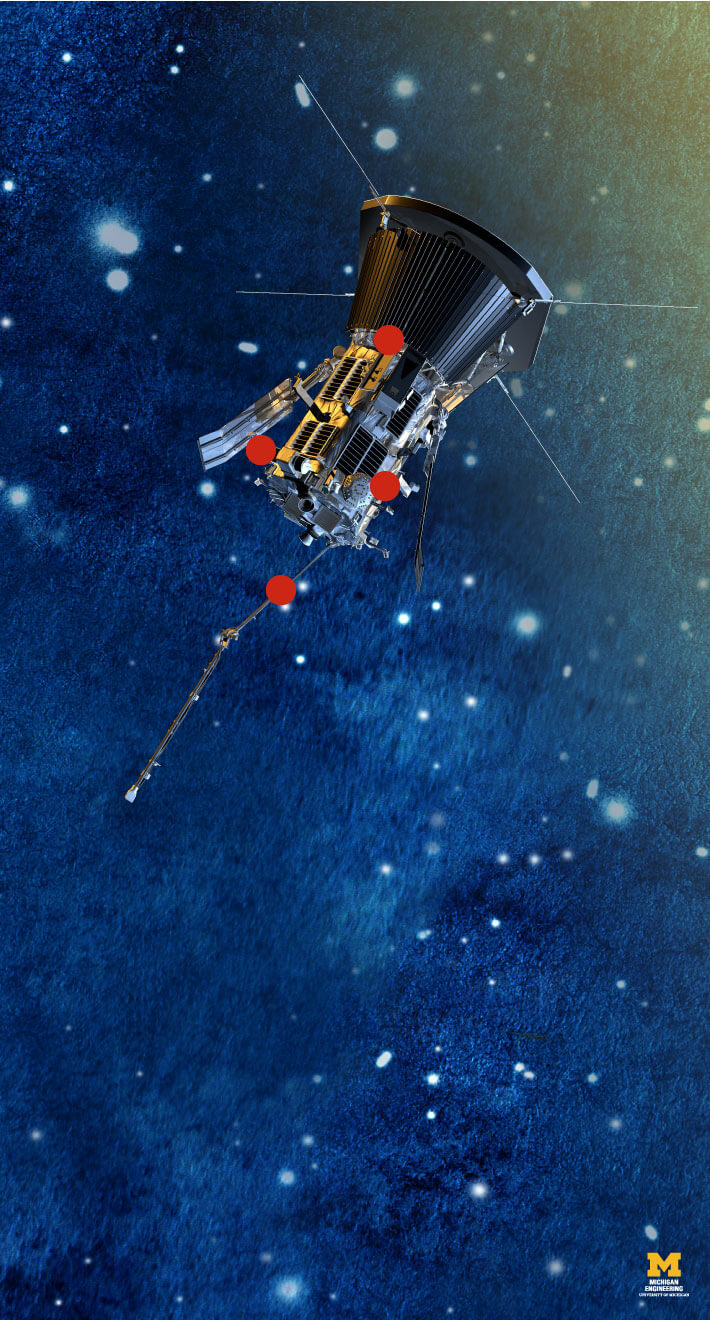
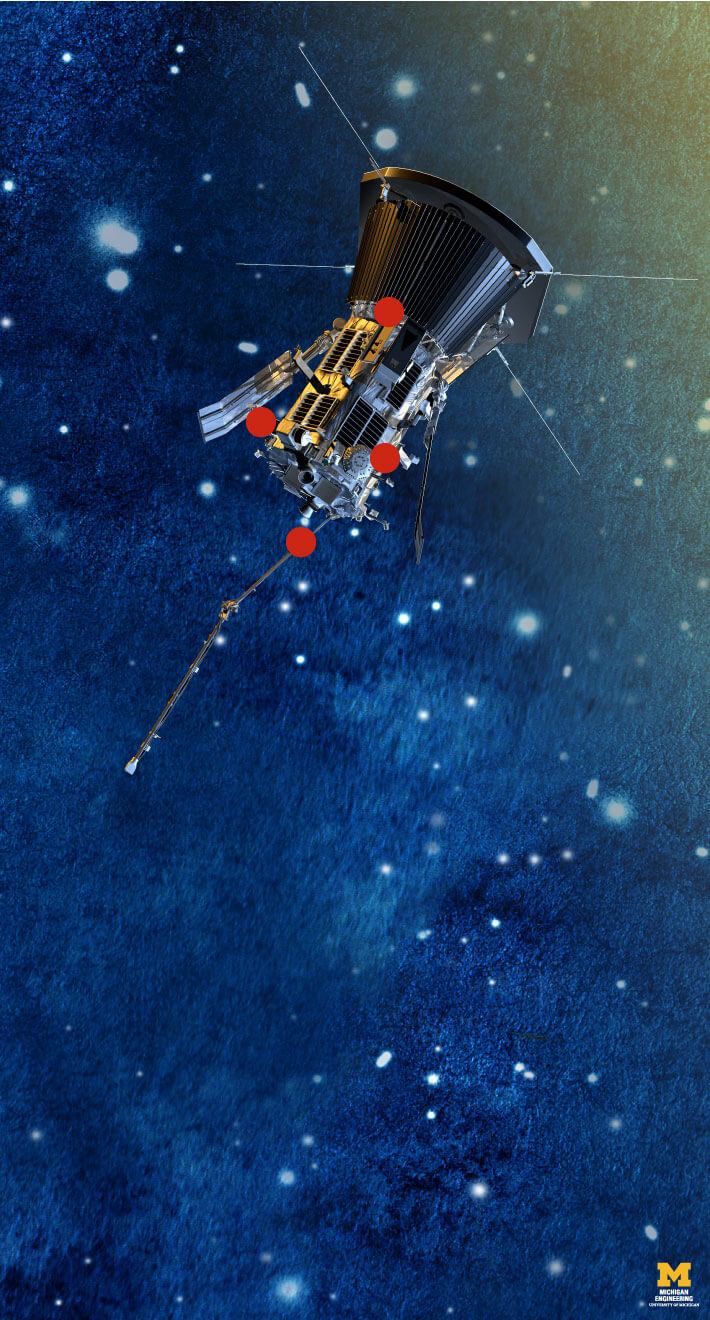
refine mobile layout

Changed region(s): [[0.1549, 0.1242, 0.7746, 0.6212], [0.8986, 0.9318, 0.9915, 0.9939]]

diff --git a/ai2html/parker-probe/ai2html-output_psp-01/index.html b/ai2html/parker-probe/ai2html-output_psp-01/index.html
@@ -20,7 +20,7 @@ p {
 </head>
 <body>
 <div id="coe-psp-01-box" class="ai2html">
-	<!-- Generated by ai2html v0.65.1-coe-customized-v2 - 2018-03-20 - 16:48 -->
+	<!-- Generated by ai2html v0.65.1-coe-customized-v2 - 2018-03-20 - 16:58 -->
 	<!-- ai file: psp-01.ai -->
 
 	<style type='text/css' media='screen,print'>
@@ -290,8 +290,8 @@ p {
 			}
 			#coe-psp-01-mobile-355 p {
 				font-weight:500;
-				font-size:11px;
-				line-height:13px;
+				font-size:12px;
+				line-height:14px;
 				filter:alpha(opacity=100);
 				-ms-filter:progid:DXImageTransform.Microsoft.Alpha(Opacity=100);
 				opacity:1;
@@ -317,11 +317,19 @@ p {
 			#coe-psp-01-mobile-355 .coe-pstyle2 {
 				font-family:'Open Sans',arial,helvetica,sans-serif;
 				font-weight:800;
+				font-size:11px;
 				line-height:17px;
 				text-align:center;
 				text-transform:uppercase;
 			}
 			#coe-psp-01-mobile-355 .coe-pstyle3 {
+				font-family:'Open Sans',arial,helvetica,sans-serif;
+				font-weight:800;
+				line-height:17px;
+				text-align:center;
+				text-transform:uppercase;
+			}
+			#coe-psp-01-mobile-355 .coe-pstyle4 {
 				font-family:'Open Sans',arial,helvetica,sans-serif;
 				font-weight:700;
 			}
@@ -331,48 +339,48 @@ p {
 			<p class="coe-pstyle0">Parker's Toolbox</p>
 			<p class="coe-pstyle1">Sampling the sun&rsquo;s atmosphere requires NASA to pack the Parker Solar Probe with a variety of sensing and optical equipment. The gear is aimed at providing answers in four different areas of scientific inquiry.</p>
 		</div>
-		<div id="coe-ai3-2" class="coe-shadow coe-aiAbs coe-aiPointText" style="top:25.8067%;margin-top:-9.3px;left:54.5808%;margin-left:-0.8451%;width:8px;">
+		<div id="coe-ai3-2" class="coe-shadow coe-aiAbs coe-aiPointText" style="top:23.6855%;margin-top:-9.3px;left:54.5808%;margin-left:-0.8451%;width:8px;">
 			<p class="coe-pstyle2">1</p>
 		</div>
-		<div id="coe-ai3-3" class="coe-shadow coe-aiAbs coe-aiPointText" style="top:34.1401%;margin-top:-9.3px;left:36.557%;margin-left:-0.8451%;width:8px;">
+		<div id="coe-ai3-3" class="coe-shadow coe-aiAbs coe-aiPointText" style="top:32.0189%;margin-top:-9.3px;left:36.557%;margin-left:-0.8451%;width:8px;">
 			<p class="coe-pstyle2">2</p>
 		</div>
-		<div id="coe-ai3-4" class="coe-shadow coe-aiAbs coe-aiPointText" style="top:37.0189%;margin-top:-9.3px;left:54.3035%;margin-left:-0.8451%;width:8px;">
+		<div id="coe-ai3-4" class="coe-shadow coe-aiAbs coe-aiPointText" style="top:34.8976%;margin-top:-9.3px;left:54.3035%;margin-left:-0.8451%;width:8px;">
 			<p class="coe-pstyle2">3</p>
 		</div>
-		<div id="coe-ai3-5" class="coe-shadow coe-aiAbs coe-aiPointText" style="top:44.7461%;margin-top:-9.3px;left:39.3739%;margin-left:-0.8451%;width:8px;">
+		<div id="coe-ai3-5" class="coe-shadow coe-aiAbs coe-aiPointText" style="top:41.1098%;margin-top:-9.3px;left:42.1908%;margin-left:-0.8451%;width:8px;">
 			<p class="coe-pstyle2">4</p>
 		</div>
-		<div id="coe-ai3-6" class="coe-shadow coe-aiAbs coe-aiPointText" style="top:50.6552%;margin-top:-9.3px;left:3.4331%;margin-left:-1.4085%;width:12px;">
-			<p class="coe-pstyle2">1.</p>
+		<div id="coe-ai3-6" class="coe-shadow coe-aiAbs coe-aiPointText" style="top:46.1211%;margin-top:-9.4px;left:3.4507%;margin-left:-1.5493%;width:13px;">
+			<p class="coe-pstyle3">1.</p>
 		</div>
-		<div id="coe-ai3-7" class="coe-shadow coe-aiAbs" style="top:49.697%;left:6.1289%;width:93.8028%;">
-			<p class="coe-pstyle3">Wide-field Imager for Solar Probe (WISPR)</p>
+		<div id="coe-ai3-7" class="coe-shadow coe-aiAbs" style="top:45.1515%;left:6.1289%;width:93.8028%;">
+			<p class="coe-pstyle4">Wide-field Imager for Solar Probe (WISPR)</p>
 			<p>Will be capturing images of the solar wind and plasma in the atmosphere. Will derive the 3D structure of the large-scale corona.</p>
 		</div>
-		<div id="coe-ai3-8" class="coe-shadow coe-aiAbs coe-aiPointText" style="top:60.3522%;margin-top:-9.3px;left:3.4331%;margin-left:-1.4085%;width:12px;">
-			<p class="coe-pstyle2">2.</p>
+		<div id="coe-ai3-8" class="coe-shadow coe-aiAbs coe-aiPointText" style="top:56.4242%;margin-top:-9.4px;left:3.4507%;margin-left:-1.5493%;width:13px;">
+			<p class="coe-pstyle3">2.</p>
 		</div>
-		<div id="coe-ai3-9" class="coe-shadow coe-aiAbs" style="top:59.3939%;left:6.1972%;width:91.2676%;">
-			<p class="coe-pstyle3">Solar Wind Electrons and Protons (SWEAP) Investigation</p>
+		<div id="coe-ai3-9" class="coe-shadow coe-aiAbs" style="top:55.4545%;left:6.1972%;width:91.2676%;">
+			<p class="coe-pstyle4">Solar Wind Electrons and Protons (SWEAP) Investigation</p>
 			<p>A trio of sensors will break down the makeup of the solar wind &ndash; counting the electrons, protons and helium ions it includes and measuring their velocity, density and temperatures.</p>
 		</div>
-		<div id="coe-ai3-10" class="coe-shadow coe-aiAbs" style="top:69.0909%;left:6.2652%;width:90.4225%;">
-			<p class="coe-pstyle3">Integrated Science Investigation of the Sun (IS0IS)</p>
+		<div id="coe-ai3-10" class="coe-shadow coe-aiAbs coe-aiPointText" style="top:70.9696%;margin-top:-9.4px;left:3.4507%;margin-left:-1.5493%;width:13px;">
+			<p class="coe-pstyle3">3.</p>
+		</div>
+		<div id="coe-ai3-11" class="coe-shadow coe-aiAbs" style="top:70%;left:6.2652%;width:90.4225%;">
+			<p class="coe-pstyle4">Integrated Science Investigation of the Sun (IS0IS)</p>
 			<p>Cataloging the energetic electrons, protons and heavy ions that are accelerated in the atmosphere as well as the inner heliosphere. Handled by the Energetic Particle Instrument &ndash; it&rsquo;s made up of one double-ended high-energy telescope and a pair of low-energy telescopes.</p>
 		</div>
-		<div id="coe-ai3-11" class="coe-shadow coe-aiAbs coe-aiPointText" style="top:70.0491%;margin-top:-9.3px;left:3.4331%;margin-left:-1.4085%;width:12px;">
-			<p class="coe-pstyle2">3.</p>
+		<div id="coe-ai3-12" class="coe-shadow coe-aiAbs coe-aiPointText" style="top:87.4848%;margin-top:-9.4px;left:3.4507%;margin-left:-1.5493%;width:13px;">
+			<p class="coe-pstyle3">4.</p>
 		</div>
-		<div id="coe-ai3-12" class="coe-shadow coe-aiAbs" style="top:82.7273%;left:6.1972%;width:90.9859%;">
-			<p class="coe-pstyle3">FIELDS Experiment</p>
+		<div id="coe-ai3-13" class="coe-shadow coe-aiAbs" style="top:86.5152%;left:6.1972%;width:90.9859%;">
+			<p class="coe-pstyle4">FIELDS Experiment</p>
 			<p>Measuring the strength of the magnetic and electric fields in the corona with voltage sensors and magnetometers. It will also gauge the absolute plasma density and electron temperatures.</p>
 		</div>
-		<div id="coe-ai3-13" class="coe-shadow coe-aiAbs coe-aiPointText" style="top:83.6855%;margin-top:-9.3px;left:3.4331%;margin-left:-1.4085%;width:12px;">
-			<p class="coe-pstyle2">4.</p>
-		</div>
 	</div>
-	<!-- End ai2html - 2018-03-20 - 16:48 -->
+	<!-- End ai2html - 2018-03-20 - 16:58 -->
 </div>
 <p class='credit'>Infographic: Michigan Engineering</p>
 <script src='https://cdnjs.cloudflare.com/ajax/libs/iframe-resizer/3.5.16/iframeResizer.contentWindow.min.js'></script>
